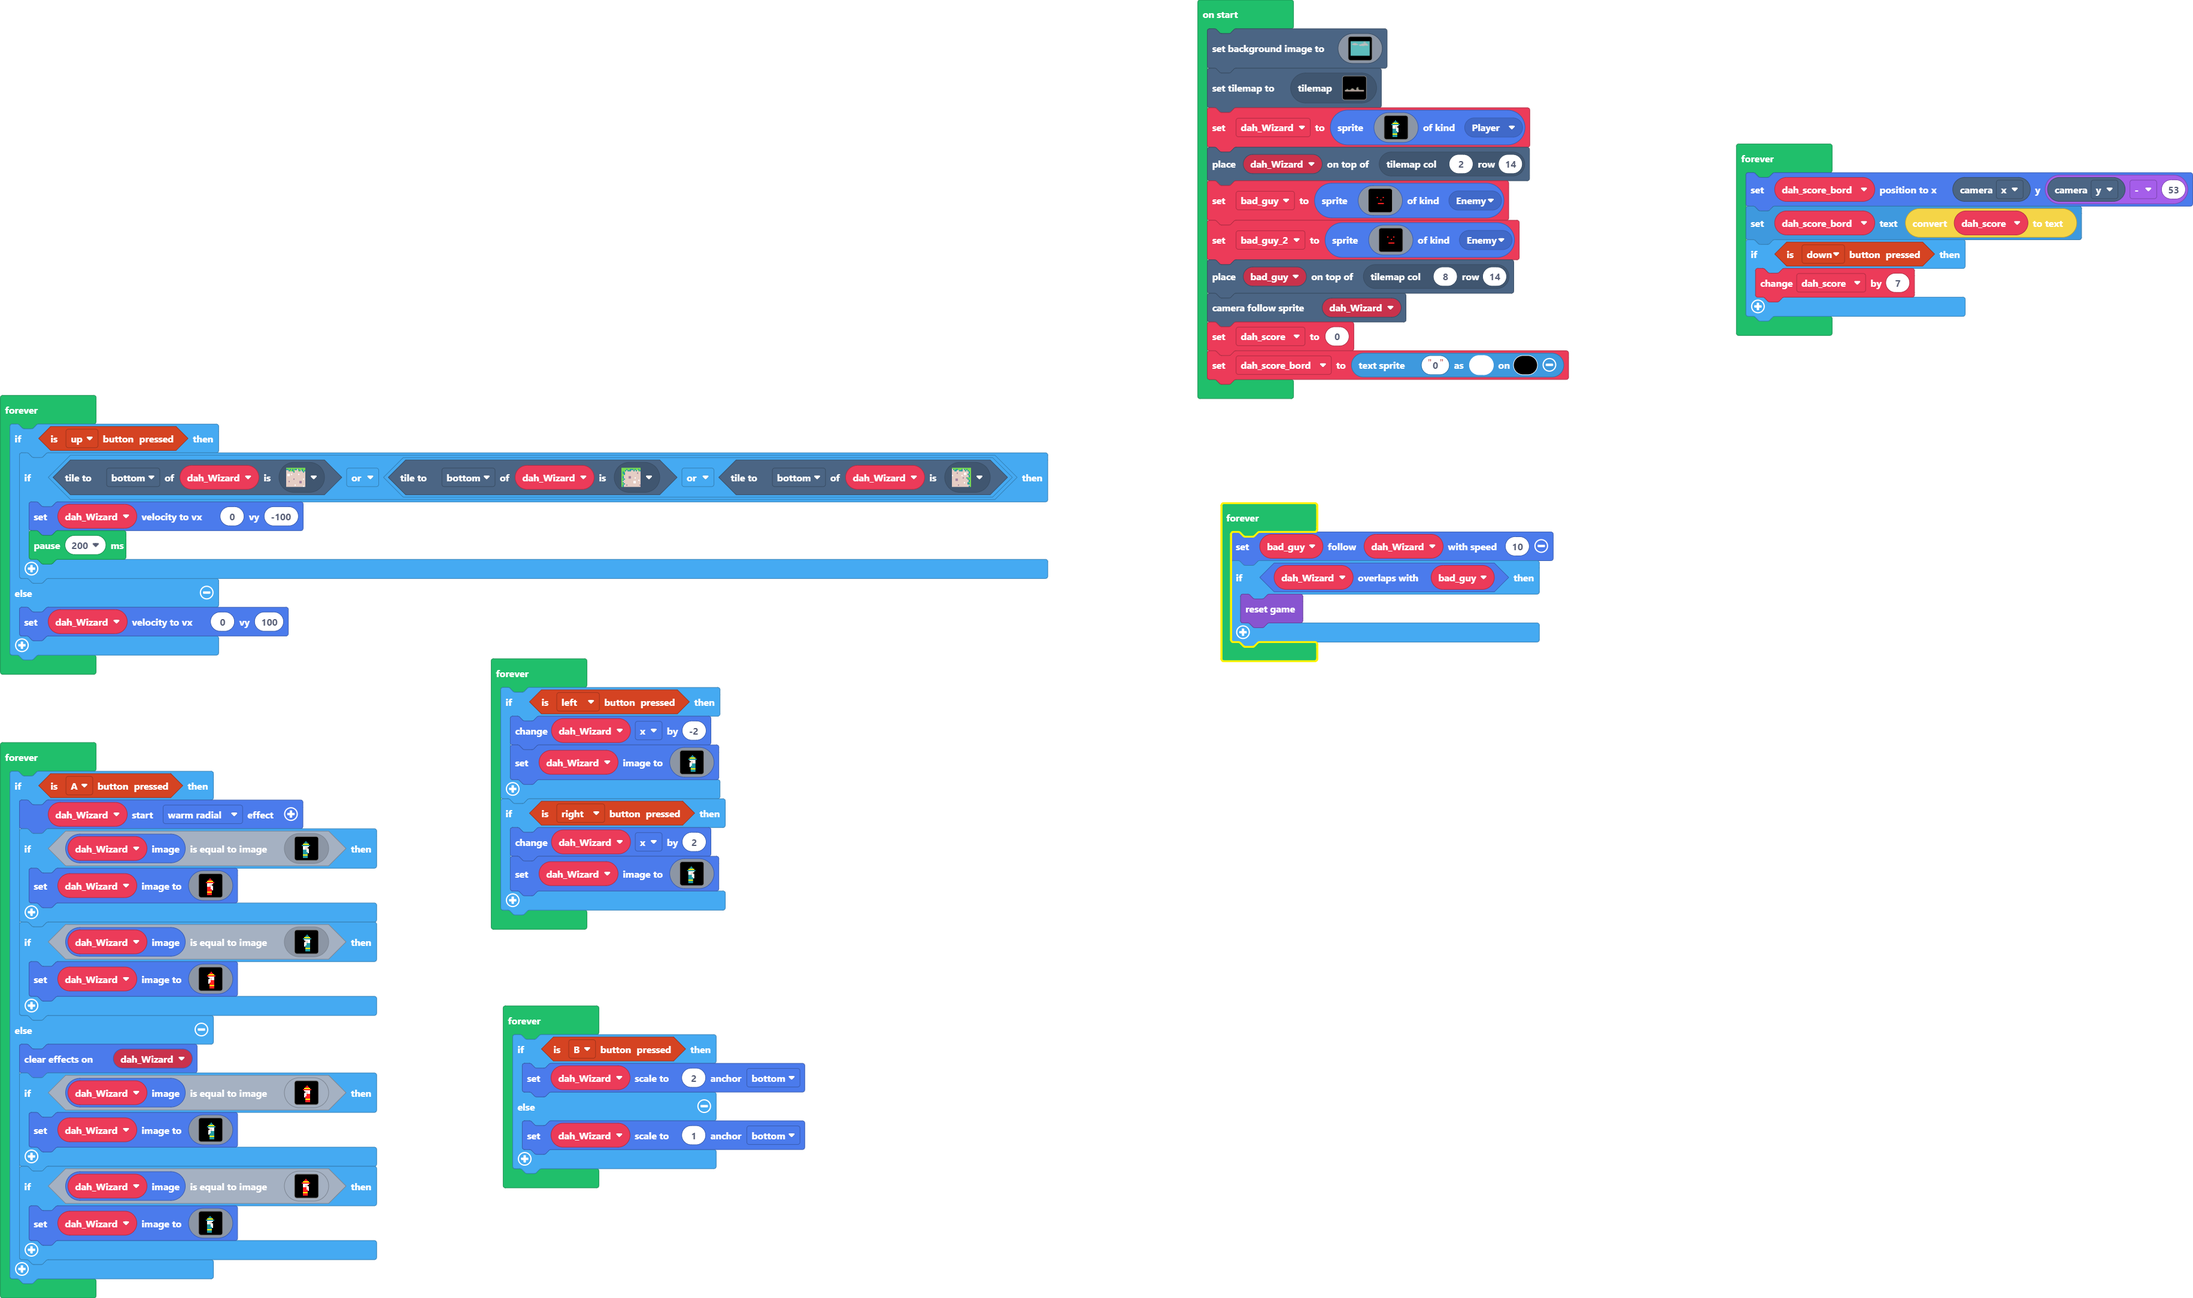
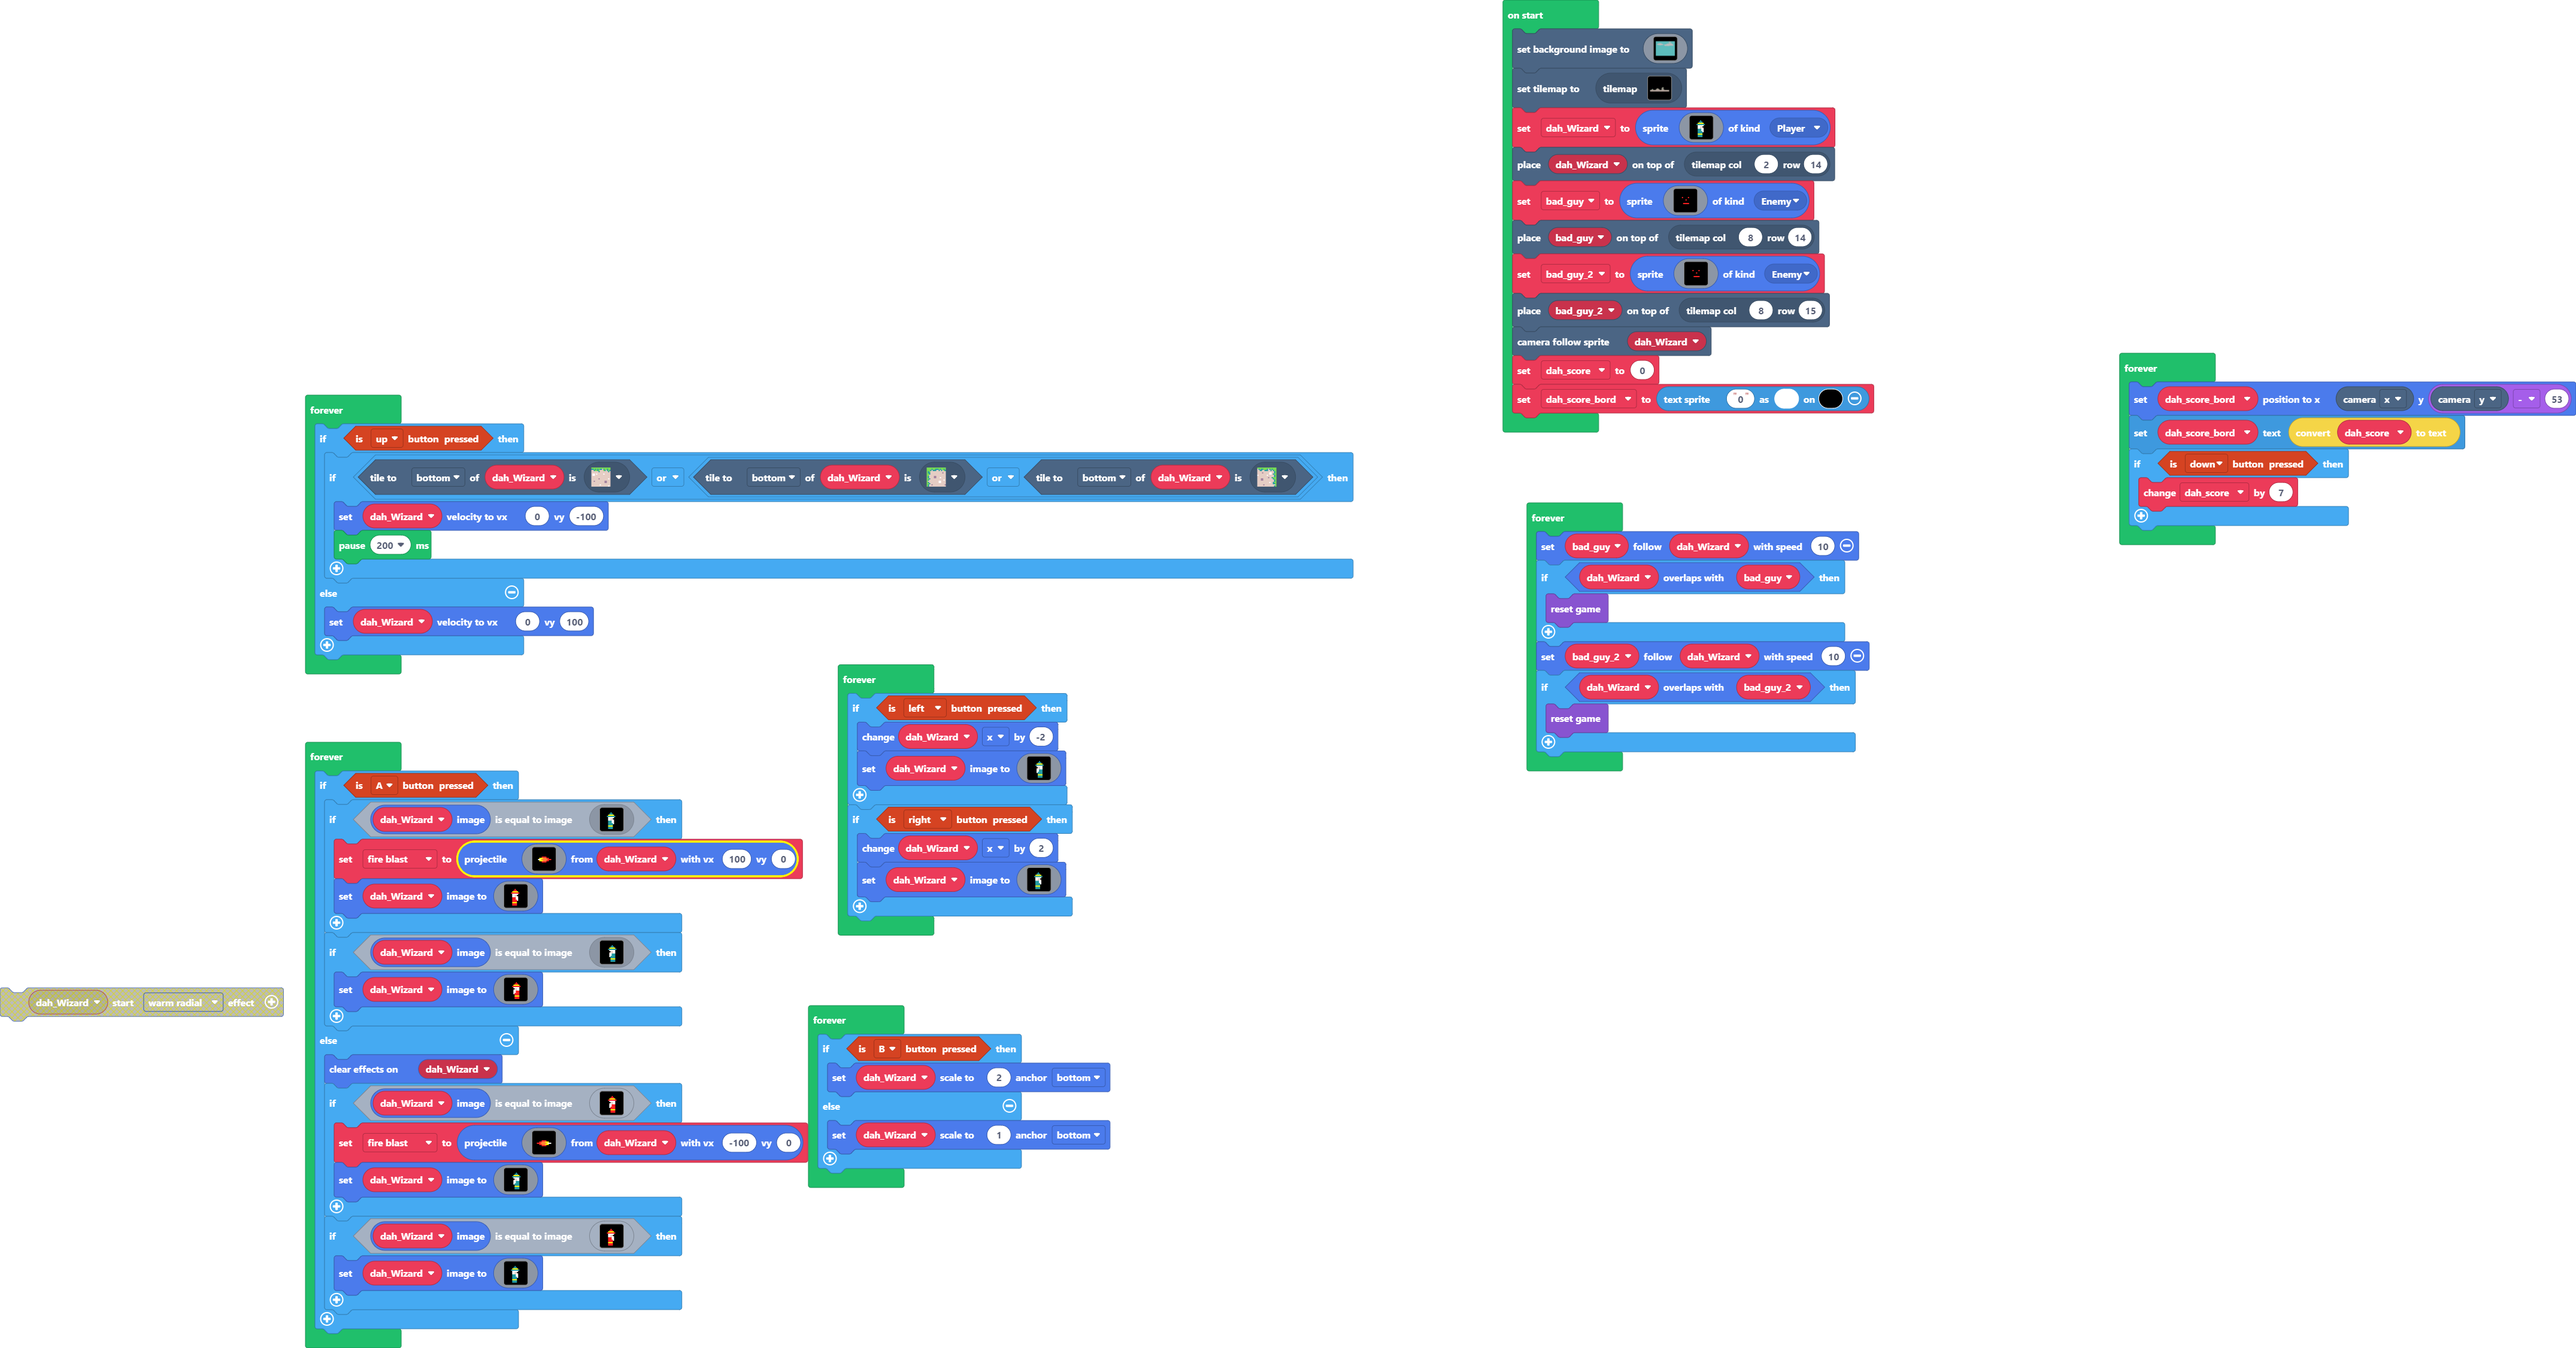
Update main.blocks, main.ts, images.g.jres, images.g.ts

Changed region(s): [[0.0, 0.2781, 0.7469, 1.0], [0.5291, 0.0, 0.7469, 0.3399], [0.7781, 0.0927, 1.0, 0.4018]]

diff --git a/main.ts b/main.ts
@@ -1,20 +1,15 @@
+let fire_blast: Sprite = null
 scene.setBackgroundImage(assets.image`sus sky`)
 tiles.setCurrentTilemap(tilemap`level1`)
 let dah_Wizard = sprites.create(assets.image`dah Wizard right`, SpriteKind.Player)
 tiles.placeOnTile(dah_Wizard, tiles.getTileLocation(2, 14))
 let bad_guy = sprites.create(assets.image`bad guy`, SpriteKind.Enemy)
-let bad_guy_2 = sprites.create(assets.image`bad guy`, SpriteKind.Enemy)
 tiles.placeOnTile(bad_guy, tiles.getTileLocation(8, 14))
+let bad_guy_2 = sprites.create(assets.image`bad guy`, SpriteKind.Enemy)
+tiles.placeOnTile(bad_guy_2, tiles.getTileLocation(8, 15))
 scene.cameraFollowSprite(dah_Wizard)
 let dah_score = 0
 let dah_score_bord = textsprite.create("0", 15, 1)
-forever(function () {
-    dah_score_bord.setPosition(scene.cameraProperty(CameraProperty.X), scene.cameraProperty(CameraProperty.Y) - 53)
-    dah_score_bord.setText(convertToText(dah_score))
-    if (controller.down.isPressed()) {
-        dah_score += 7
-    }
-})
 forever(function () {
     if (controller.up.isPressed()) {
         if (dah_Wizard.tileKindAt(TileDirection.Bottom, sprites.castle.tilePath2) || (dah_Wizard.tileKindAt(TileDirection.Bottom, sprites.castle.tilePath1) || dah_Wizard.tileKindAt(TileDirection.Bottom, sprites.castle.tilePath3))) {
@@ -26,8 +21,19 @@ forever(function () {
     }
 })
 forever(function () {
+    dah_score_bord.setPosition(scene.cameraProperty(CameraProperty.X), scene.cameraProperty(CameraProperty.Y) - 53)
+    dah_score_bord.setText(convertToText(dah_score))
+    if (controller.down.isPressed()) {
+        dah_score += 7
+    }
+})
+forever(function () {
     bad_guy.follow(dah_Wizard, 10)
     if (dah_Wizard.overlapsWith(bad_guy)) {
+        game.reset()
+    }
+    bad_guy_2.follow(dah_Wizard, 10)
+    if (dah_Wizard.overlapsWith(bad_guy_2)) {
         game.reset()
     }
 })
@@ -43,8 +49,8 @@ forever(function () {
 })
 forever(function () {
     if (controller.A.isPressed()) {
-        dah_Wizard.startEffect(effects.warmRadial)
         if (dah_Wizard.image.equals(assets.image`dah Wizard right`)) {
+            fire_blast = sprites.createProjectileFromSprite(assets.image`fire blast right`, dah_Wizard, 100, 0)
             dah_Wizard.setImage(assets.image`dah Wizard red right`)
         }
         if (dah_Wizard.image.equals(assets.image`dah Wizard left`)) {
@@ -53,6 +59,7 @@ forever(function () {
     } else {
         effects.clearParticles(dah_Wizard)
         if (dah_Wizard.image.equals(assets.image`dah Wizard red left`)) {
+            fire_blast = sprites.createProjectileFromSprite(assets.image`fire blast left`, dah_Wizard, -100, 0)
             dah_Wizard.setImage(assets.image`dah Wizard left`)
         }
         if (dah_Wizard.image.equals(assets.image`dah Wizard red right`)) {

diff --git a/images.g.ts b/images.g.ts
@@ -221,6 +221,44 @@ namespace myImages {
 . . . . . 2 2 2 2 . . . . . . . 
 . . . . . 2 2 2 2 . . . . . . . 
 `;
+            case "image6":
+            case "fire blast right":return img`
+. . . . . . . . . . . . . . . . 
+. . . . . . . . . . . . . . . . 
+. . . . . . . . . . . . . . . . 
+. . . . . . . . . . . . . . . . 
+. . . . . . . . . . . . . . . . 
+. . . . . . . . . . . . . . . . 
+. . . . . . 2 2 2 2 . . . . . . 
+. . . . 5 5 5 4 4 4 2 2 . . . . 
+. . . 1 1 5 4 4 4 4 4 2 2 2 . . 
+. . . . 5 5 5 4 4 4 2 2 . . . . 
+. . . . . . 2 2 2 2 . . . . . . 
+. . . . . . . . . . . . . . . . 
+. . . . . . . . . . . . . . . . 
+. . . . . . . . . . . . . . . . 
+. . . . . . . . . . . . . . . . 
+. . . . . . . . . . . . . . . . 
+`;
+            case "image7":
+            case "fire blast left":return img`
+. . . . . . . . . . . . . . . . 
+. . . . . . . . . . . . . . . . 
+. . . . . . . . . . . . . . . . 
+. . . . . . . . . . . . . . . . 
+. . . . . . . . . . . . . . . . 
+. . . . . . . . . . . . . . . . 
+. . . . . . 2 2 2 2 . . . . . . 
+. . . . 2 2 4 4 4 5 5 5 . . . . 
+. . 2 2 2 4 4 4 4 4 5 1 1 1 . . 
+. . . . 2 2 4 4 4 5 5 5 . . . . 
+. . . . . . 2 2 2 2 . . . . . . 
+. . . . . . . . . . . . . . . . 
+. . . . . . . . . . . . . . . . 
+. . . . . . . . . . . . . . . . 
+. . . . . . . . . . . . . . . . 
+. . . . . . . . . . . . . . . . 
+`;
         }
         return null;
     })
